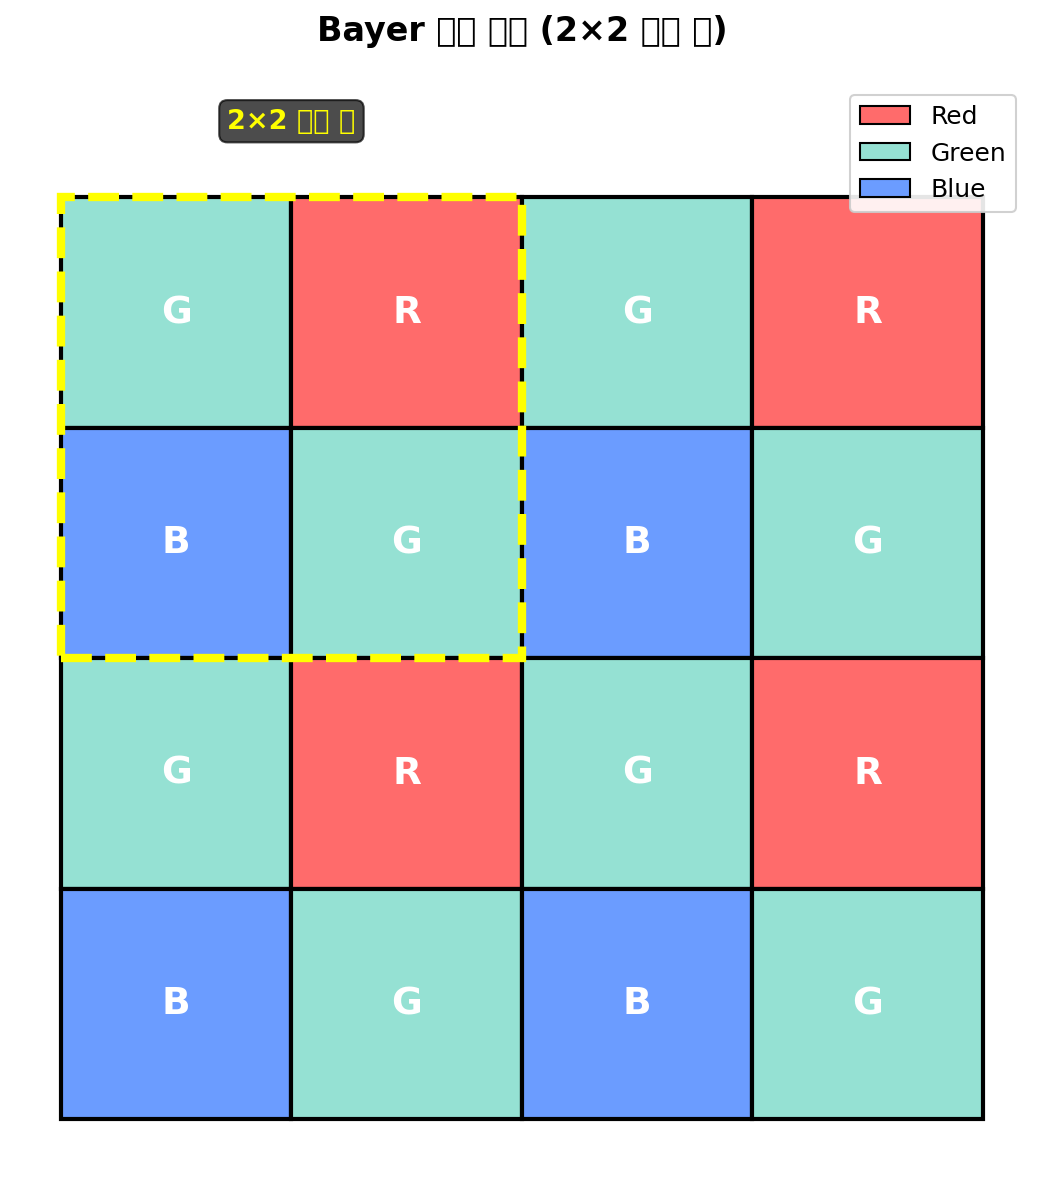
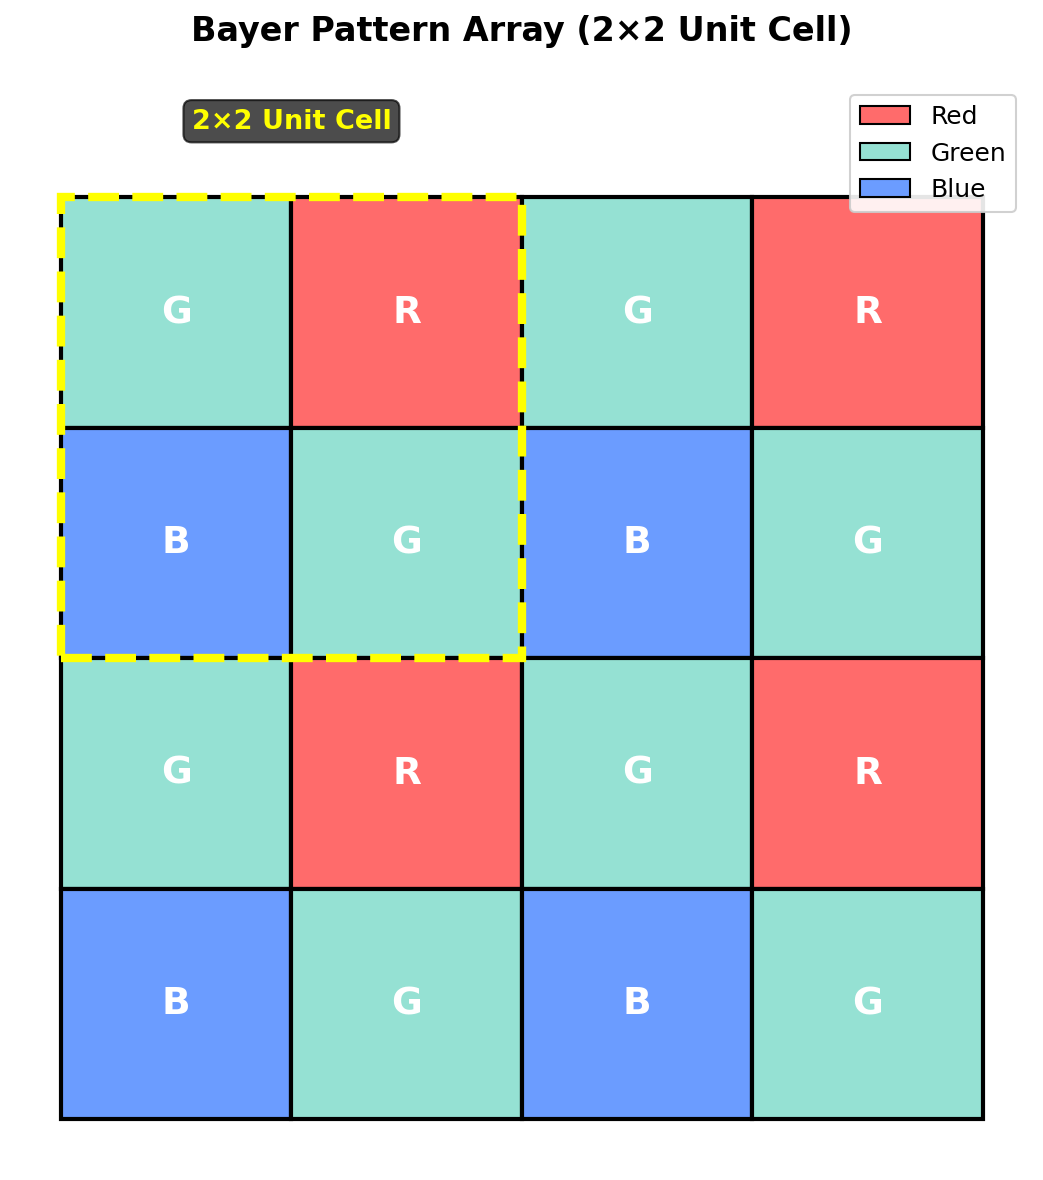
Replace Korean labels with English in all figures
- Simplified font configuration (removed Korean font setup)
- Changed all Korean text labels to English
- Regenerated all 7 figures with English labels
- No font warnings during generation
- Stable solution that works in any environment including GitHub Actions

Changed labels:
- Real Space Lattice
- Reciprocal Lattice & Diffraction Orders
- Multi-Layer Structure
- Bayer Pattern Array
- Image Sensor Pixel Structure
- Incidence Geometry & Polarization
- Diffraction Orders

Changed region(s): [[0.1534, 0.0, 0.8284, 0.122]]

diff --git a/generate_figures.py b/generate_figures.py
@@ -9,51 +9,17 @@ import matplotlib.patches as patches
 from matplotlib.patches import FancyArrowPatch, Circle, Rectangle, Polygon
 from mpl_toolkits.mplot3d import Axes3D
 from mpl_toolkits.mplot3d.art3d import Poly3DCollection
-import matplotlib.font_manager as fm
 import os
 
 # Set output directory
 output_dir = 'docs_mkdocs/assets/images'
 os.makedirs(output_dir, exist_ok=True)
 
-# Configure Korean font support
-# Directly use system font path for Noto Sans CJK KR
-import glob
-
-font_found = False
-font_paths = [
-    '/usr/share/fonts/opentype/noto/NotoSansCJK-Regular.ttc',
-    '/usr/share/fonts/truetype/noto/NotoSansCJK-Regular.ttc',
-]
-
-for font_path in font_paths:
-    if os.path.exists(font_path):
-        from matplotlib.font_manager import fontManager
-        fontManager.addfont(font_path)
-        plt.rcParams['font.family'] = 'Noto Sans CJK KR'
-        font_found = True
-        print(f"Using Korean font: Noto Sans CJK KR from {font_path}")
-        break
-
-if not font_found:
-    # Try to find any Noto font
-    noto_fonts = glob.glob('/usr/share/fonts/**/Noto*CJK*.ttc', recursive=True)
-    if noto_fonts:
-        from matplotlib.font_manager import fontManager
-        fontManager.addfont(noto_fonts[0])
-        plt.rcParams['font.family'] = 'Noto Sans CJK KR'
-        font_found = True
-        print(f"Using Korean font from: {noto_fonts[0]}")
-
-if not font_found:
-    print("Warning: Korean font not found. Korean text may not display correctly.")
-    plt.rcParams['font.family'] = 'DejaVu Sans'
-
 # Set style
 plt.rcParams['font.size'] = 11
 plt.rcParams['axes.linewidth'] = 1.5
 plt.rcParams['figure.dpi'] = 150
-plt.rcParams['axes.unicode_minus'] = False  # Fix minus sign display
+plt.rcParams['axes.unicode_minus'] = False
 
 def generate_lattice_structure():
     """Generate real space lattice diagram"""
@@ -71,7 +37,7 @@ def generate_lattice_structure():
                 ax.plot(point[0], point[1], 'ko', markersize=8)
 
     # Origin point (highlighted)
-    ax.plot(0, 0, 'ro', markersize=12, label='원점', zorder=5)
+    ax.plot(0, 0, 'ro', markersize=12, label='Origin', zorder=5)
 
     # Draw lattice vectors from origin
     ax.arrow(0, 0, L1[0], L1[1], head_width=0.15, head_length=0.15,
@@ -81,7 +47,7 @@ def generate_lattice_structure():
 
     # Draw unit cell
     vertices = np.array([[0, 0], L1, L1 + L2, L2, [0, 0]])
-    ax.plot(vertices[:, 0], vertices[:, 1], 'r--', linewidth=2, alpha=0.7, label='단위 셀')
+    ax.plot(vertices[:, 0], vertices[:, 1], 'r--', linewidth=2, alpha=0.7, label='Unit Cell')
     ax.fill(vertices[:-1, 0], vertices[:-1, 1], alpha=0.1, color='red')
 
     # Add text annotations
@@ -90,7 +56,7 @@ def generate_lattice_structure():
 
     ax.set_xlabel('$x$', fontsize=14)
     ax.set_ylabel('$y$', fontsize=14)
-    ax.set_title('실공간 격자 구조 (Real Space Lattice)', fontsize=15, fontweight='bold')
+    ax.set_title('Real Space Lattice', fontsize=15, fontweight='bold')
     ax.grid(True, alpha=0.3)
     ax.set_aspect('equal')
     ax.legend(loc='upper right', fontsize=11)
@@ -123,7 +89,7 @@ def generate_reciprocal_lattice():
                            fontsize=9, color='darkblue')
 
     # Origin (0,0 order - highlighted)
-    ax.plot(0, 0, 'ro', markersize=12, label='(0,0) 차수', zorder=5)
+    ax.plot(0, 0, 'ro', markersize=12, label='(0,0) order', zorder=5)
 
     # Draw reciprocal lattice vectors
     ax.arrow(0, 0, G1[0], G1[1], head_width=0.15, head_length=0.15,
@@ -133,7 +99,7 @@ def generate_reciprocal_lattice():
 
     # Draw truncation circle (nG example)
     circle = plt.Circle((0, 0), 2.5, color='red', fill=False, linewidth=2,
-                        linestyle='--', label='절단 영역 (nG)', alpha=0.7)
+                        linestyle='--', label='Truncation (nG)', alpha=0.7)
     ax.add_patch(circle)
 
     ax.text(G1[0]/2 + 0.2, G1[1]/2 - 0.3, '$\\mathbf{G}_1$', fontsize=14,
@@ -143,7 +109,7 @@ def generate_reciprocal_lattice():
 
     ax.set_xlabel('$k_x$', fontsize=14)
     ax.set_ylabel('$k_y$', fontsize=14)
-    ax.set_title('역격자 공간 및 회절 차수 (Reciprocal Lattice)', fontsize=15, fontweight='bold')
+    ax.set_title('Reciprocal Lattice & Diffraction Orders', fontsize=15, fontweight='bold')
     ax.grid(True, alpha=0.3)
     ax.set_aspect('equal')
     ax.legend(loc='upper right', fontsize=10)
@@ -162,11 +128,11 @@ def generate_layer_stack():
 
     # Layer definitions: (y_start, thickness, color, label, epsilon)
     layers = [
-        (5.0, 1.5, '#87CEEB', '입사 매질 (Air)\n$\\varepsilon = 1.0$', 1.0),
+        (5.0, 1.5, '#87CEEB', 'Incident Medium (Air)\n$\\varepsilon = 1.0$', 1.0),
         (3.5, 0.8, '#FFD700', 'Layer 1\n$\\varepsilon(x,y)$', None),
         (2.7, 0.5, '#90EE90', 'Layer 2 (Uniform)\n$\\varepsilon = 2.25$', 2.25),
         (2.2, 1.0, '#FFA07A', 'Layer 3\n$\\varepsilon(x,y)$', None),
-        (1.2, 1.2, '#87CEEB', '투과 매질 (Substrate)\n$\\varepsilon = 2.1$', 2.1),
+        (1.2, 1.2, '#87CEEB', 'Transmission Medium\n$\\varepsilon = 2.1$', 2.1),
     ]
 
     width = 6
@@ -200,7 +166,7 @@ def generate_layer_stack():
     arrow_y = 6.8
     ax.annotate('', xy=(arrow_x, 5.2), xytext=(arrow_x, arrow_y),
                 arrowprops=dict(arrowstyle='->', lw=3, color='red'))
-    ax.text(arrow_x - 0.5, 6.0, '입사파\n$\\theta, \\phi$', fontsize=11,
+    ax.text(arrow_x - 0.5, 6.0, 'Incident\n$\\theta, \\phi$', fontsize=11,
             color='red', fontweight='bold')
 
     # Draw reflected wave
@@ -225,7 +191,7 @@ def generate_layer_stack():
     ax.set_ylim(-0.5, 7.5)
     ax.set_aspect('equal')
     ax.axis('off')
-    ax.set_title('다층 구조 (Layer Stack)', fontsize=16, fontweight='bold', pad=20)
+    ax.set_title('Multi-Layer Structure', fontsize=16, fontweight='bold', pad=20)
 
     plt.tight_layout()
     plt.savefig(f'{output_dir}/layer_stack.png', dpi=150, bbox_inches='tight')
@@ -264,7 +230,7 @@ def generate_bayer_pattern():
                           facecolor='none', edgecolor='yellow',
                           linewidth=4, linestyle='--')
     ax.add_patch(rect_unit)
-    ax.text(1, 4.3, '2×2 단위 셀', ha='center', fontsize=13,
+    ax.text(1, 4.3, '2×2 Unit Cell', ha='center', fontsize=13,
            fontweight='bold', color='yellow',
            bbox=dict(boxstyle='round', facecolor='black', alpha=0.7))
 
@@ -272,7 +238,7 @@ def generate_bayer_pattern():
     ax.set_ylim(-0.2, n + 0.5)
     ax.set_aspect('equal')
     ax.axis('off')
-    ax.set_title('Bayer 패턴 배열 (2×2 단위 셀)', fontsize=16, fontweight='bold', pad=20)
+    ax.set_title('Bayer Pattern Array (2×2 Unit Cell)', fontsize=16, fontweight='bold', pad=20)
 
     # Add legend
     legend_elements = [
@@ -297,11 +263,11 @@ def generate_sensor_structure():
     width = 8
 
     layers_data = [
-        (0, 1.5, '#FF6B6B', '실리콘 기판 (Si substrate)'),
-        (1.5, 2.0, '#4A90E2', '광다이오드 영역 (Photodiode)\n전하 수집'),
-        (3.5, 0.3, '#999999', '금속 배선 (Metal wiring)'),
-        (3.8, 0.5, '#95E1D3', '컬러 필터 (Color filter)'),
-        (4.3, 0.8, '#87CEEB', '마이크로렌즈 (Microlens)'),
+        (0, 1.5, '#FF6B6B', 'Si substrate'),
+        (1.5, 2.0, '#4A90E2', 'Photodiode\n(charge collection)'),
+        (3.5, 0.3, '#999999', 'Metal wiring'),
+        (3.8, 0.5, '#95E1D3', 'Color filter'),
+        (4.3, 0.8, '#87CEEB', 'Microlens'),
     ]
 
     for y_bottom, height, color, label in layers_data:
@@ -334,7 +300,7 @@ def generate_sensor_structure():
         ax.plot([x_start + x_offset, target_x], [5.1, 2.5],
                'orange', linewidth=2, linestyle='--', alpha=0.7)
 
-    ax.text(x_start + width/2, 7.0, '입사광', ha='center', fontsize=13,
+    ax.text(x_start + width/2, 7.0, 'Incident Light', ha='center', fontsize=13,
            fontweight='bold', color='red')
 
     # Add dimension arrows
@@ -349,14 +315,14 @@ def generate_sensor_structure():
     # Add pixel pitch annotation
     ax.annotate('', xy=(x_start, -0.5), xytext=(x_start + width, -0.5),
                arrowprops=dict(arrowstyle='<->', lw=2))
-    ax.text(x_start + width/2, -0.9, '픽셀 피치 (Pixel pitch) ~1-2μm',
+    ax.text(x_start + width/2, -0.9, 'Pixel pitch ~1-2μm',
            fontsize=11, ha='center', fontweight='bold')
 
     ax.set_xlim(0, 11)
     ax.set_ylim(-1.5, 7.5)
     ax.set_aspect('equal')
     ax.axis('off')
-    ax.set_title('이미지 센서 픽셀 구조 (단면도)', fontsize=16, fontweight='bold', pad=20)
+    ax.set_title('Image Sensor Pixel Structure (Cross-section)', fontsize=16, fontweight='bold', pad=20)
 
     plt.tight_layout()
     plt.savefig(f'{output_dir}/sensor_structure.png', dpi=150, bbox_inches='tight')
@@ -396,13 +362,13 @@ def generate_incidence_geometry():
 
     # Draw incident wave vector
     ax.quiver(0, 0, 1.5, kx, ky, kz, color='red', arrow_length_ratio=0.15,
-             linewidth=3, label='입사 파동벡터 $\\mathbf{k}$')
+             linewidth=3, label='Incident $\\mathbf{k}$')
 
     # Draw projection on xy-plane
     ax.plot([0, kx], [0, ky], [0, 0], 'r--', linewidth=2, alpha=0.5)
     ax.plot([kx, kx], [ky, ky], [0, 1.5+kz], 'r--', linewidth=1, alpha=0.5)
 
-    # Draw theta angle arc (in xz-plane for visualization)
+    # Draw theta angle arc
     theta_arc = np.linspace(np.pi/2, np.pi/2 + theta, 20)
     arc_r = 0.4
     arc_x = arc_r * np.sin(theta_arc) * np.cos(phi)
@@ -422,7 +388,7 @@ def generate_incidence_geometry():
     ax.text(arc_x2[10] + 0.1, arc_y2[10], 0.1, '$\\phi$', fontsize=14,
            color='green', fontweight='bold')
 
-    # Draw polarization vectors (perpendicular to k)
+    # Draw polarization vectors
     # s-polarization (perpendicular to plane of incidence)
     s_pol = np.array([-np.sin(phi), np.cos(phi), 0])
     s_pol = s_pol / np.linalg.norm(s_pol) * 0.6
@@ -430,7 +396,7 @@ def generate_incidence_geometry():
     ax.quiver(origin_pol[0], origin_pol[1], origin_pol[2],
              s_pol[0], s_pol[1], s_pol[2],
              color='purple', arrow_length_ratio=0.2, linewidth=2.5,
-             label='s-편광 (TE)')
+             label='s-pol (TE)')
 
     # p-polarization (in plane of incidence)
     p_pol = np.cross([kx, ky, kz], s_pol)
@@ -438,12 +404,12 @@ def generate_incidence_geometry():
     ax.quiver(origin_pol[0], origin_pol[1], origin_pol[2],
              p_pol[0], p_pol[1], p_pol[2],
              color='orange', arrow_length_ratio=0.2, linewidth=2.5,
-             label='p-편광 (TM)')
+             label='p-pol (TM)')
 
     ax.set_xlabel('X', fontsize=12)
     ax.set_ylabel('Y', fontsize=12)
     ax.set_zlabel('Z', fontsize=12)
-    ax.set_title('입사각 및 편광 기하학', fontsize=16, fontweight='bold', pad=20)
+    ax.set_title('Incidence Geometry & Polarization', fontsize=16, fontweight='bold', pad=20)
 
     ax.set_xlim([-1, 1.5])
     ax.set_ylim([-1, 1.5])
@@ -485,7 +451,7 @@ def generate_diffraction_orders():
             beam_length * np.sin(incident_angle),
             -beam_length * np.cos(incident_angle),
             head_width=0.15, head_length=0.1, fc='red', ec='red', linewidth=2.5)
-    ax.text(beam_x - 1.2, 1.5, '입사광\n$\\theta_i$', fontsize=12, color='red', fontweight='bold')
+    ax.text(beam_x - 1.2, 1.5, 'Incident\n$\\theta_i$', fontsize=12, color='red', fontweight='bold')
 
     # Diffraction orders
     orders = [-2, -1, 0, 1, 2]
@@ -519,10 +485,10 @@ def generate_diffraction_orders():
     ax.set_ylim(-1, 3)
     ax.set_aspect('equal')
     ax.axis('off')
-    ax.set_title('회절 차수 (Diffraction Orders)', fontsize=16, fontweight='bold', pad=20)
+    ax.set_title('Diffraction Orders', fontsize=16, fontweight='bold', pad=20)
 
-    # Add legend for propagating orders
-    ax.text(2.5, 2.5, '전파 차수\n(Propagating)', fontsize=11,
+    # Add legend
+    ax.text(2.5, 2.5, 'Propagating\nOrders', fontsize=11,
            bbox=dict(boxstyle='round', facecolor='wheat', alpha=0.8))
 
     plt.tight_layout()
